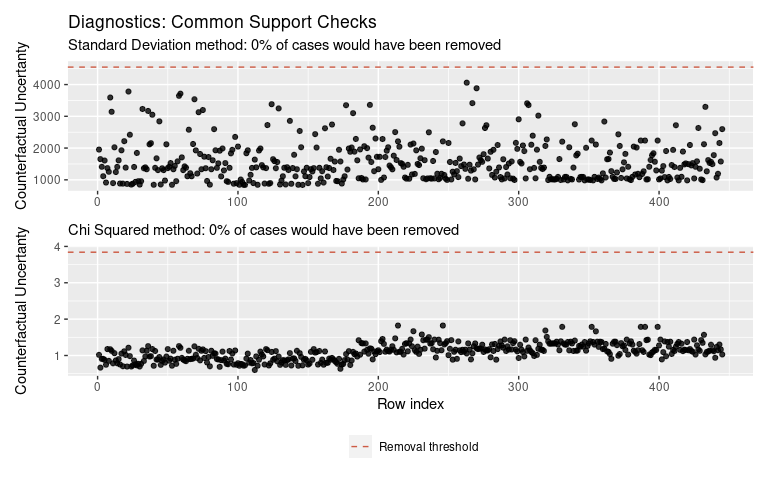
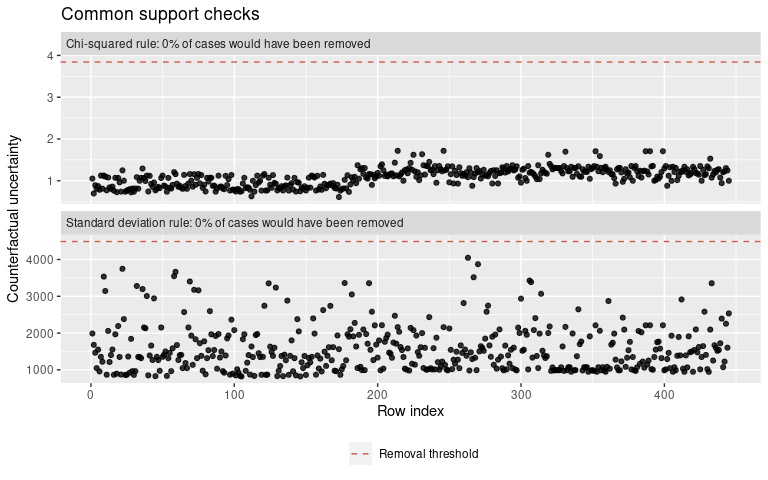
removed patchwork dependency by rewriting plot_common_support

diff --git a/README.md b/README.md
@@ -58,13 +58,13 @@ devtools::install_github("joemarlo/plotBart")
 
 ### Test coverage
 
-    #> plotBart Coverage: 91.67%
+    #> plotBart Coverage: 91.43%
     #> R/utils.R: 66.67%
     #> R/plot_variable_importance.R: 81.82%
     #> R/plot_cate_test.R: 89.83%
     #> R/plot_overlap_pScores.R: 90.74%
     #> R/plot_overlap_vars.R: 93.02%
     #> R/plot_balance.R: 95.83%
-    #> R/plot_common_support.R: 97.67%
+    #> R/plot_common_support.R: 97.14%
     #> R/plot_ITE.R: 100.00%
     #> R/plot_trace.R: 100.00%
